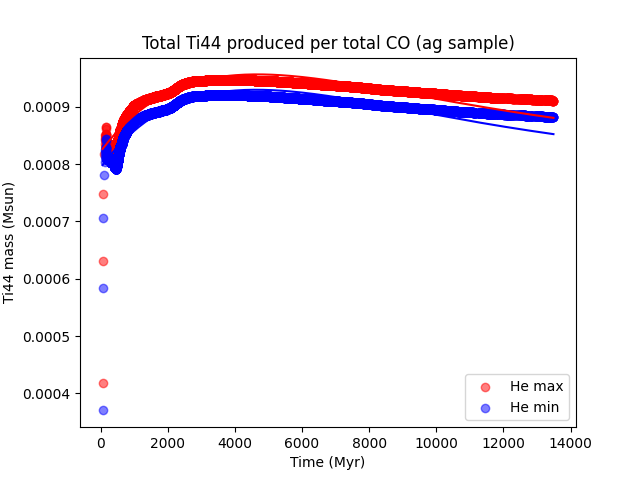
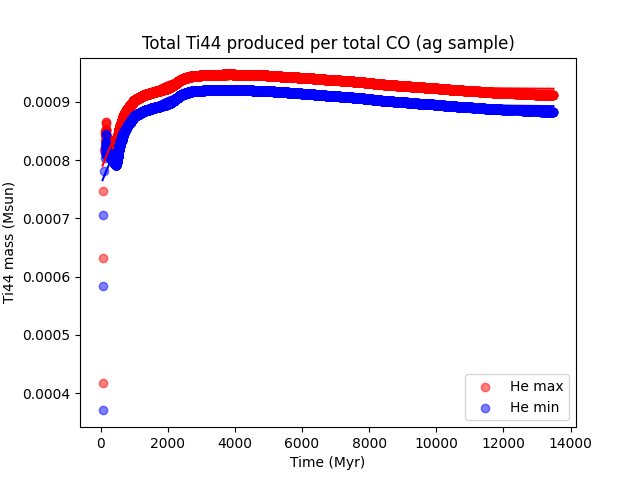
refined fits and outputted fitting parameters

diff --git a/Interpolation Code/rbf_interp/rbf_interp_outp.py b/Interpolation Code/rbf_interp/rbf_interp_outp.py
@@ -44,11 +44,9 @@ Also, commenting out some extraneous blocks to make the relevant bits run faster
 # includes ...
 import sys
 sys.path.append('../')
-from groupFunctions import positronFromTi
 from rbf_interp import * 
 #import numpy as np (within rbf_interp) 
 import pandas as pd 
-import matplotlib.pyplot as plt
 from scipy.optimize import curve_fit 
 
 
@@ -120,35 +118,12 @@ ag_ti_min = np.array(ti_interp.arr_interp(ag_wd1min_pts))
 ag_ti_min += np.array(ti_interp.arr_interp(ag_wd2min_pts)) 
 
 #################
-""" 
-Quick update Aug 3
-Divided entrywise by mass that produced Ti44
-in this case, (WD1_m + WD2_m)
-Consider adding Helium masses to denominator? 
-
-def mass_normalization(ti_arr, wd1_pts_arr, wd2_pts_arr): 
-    # Takes in numpy arrays (from data above) 
-    # assuming wd*_pts_arr is indexed like [He_mass, WD*_mass] 
-    # and performs the following calculation entrywise: 
-    Ti_mass = Ti_mass / (WD1_mass + WD2_mass) 
-    wd_mass_sum = wd1_pts_arr[:,1] + wd2_pts_arr[:,1] 
-    return ti_arr / wd_mass_sum
-
-aa_ti_max = mass_normalization(aa_ti_max, aa_wd1max_pts, aa_wd2max_pts) 
-aa_ti_min = mass_normalization(aa_ti_min, aa_wd1min_pts, aa_wd2min_pts) 
-ag_ti_max = mass_normalization(ag_ti_max, ag_wd1max_pts, ag_wd2max_pts) 
-ag_ti_min = mass_normalization(ag_ti_min, ag_wd1min_pts, ag_wd2min_pts) 
-
-This appears to get a better picture for the plots that show Ti44 produced at each moment in time 
-But doesn't serve to get the total Ti44 plots intensive
-"""
-#################
 
 # Function to sum over values of an array
 # Returning an array with entries as sum up to that point 
 # Update Aug 3: Normalized to total CO mass at each point 
 def total_arr(ti_arr, wd1_pts_arr, wd2_pts_arr): 
-    # inputs are numpy arrays for entrywise addition to work correctly 
+    # inputs must be numpy arrays for entrywise addition to work 
     wd_mass_sum_arr = wd1_pts_arr[:,1] + wd2_pts_arr[:,1] 
     sum_ti = 0
     sum_co = 0 
@@ -165,67 +140,41 @@ aa_totalTi_min = total_arr(aa_ti_min, aa_wd1min_pts, aa_wd2min_pts)
 ag_totalTi_max = total_arr(ag_ti_max, ag_wd1max_pts, ag_wd2max_pts) 
 ag_totalTi_min = total_arr(ag_ti_min, ag_wd1min_pts, ag_wd2min_pts) 
 
-"""
-# Finding positrons from Ti mass arrays 
-aa_pos_max = np.array(positronFromTi(aa_ti_max)) 
-aa_pos_min = np.array(positronFromTi(aa_ti_min)) 
-ag_pos_max = np.array(positronFromTi(ag_ti_max))
-ag_pos_min = np.array(positronFromTi(ag_ti_min)) 
-
-# Finding total positrons produced over time 
-aa_totalPos_max = total_arr(aa_pos_max, aa_wd1max_pts, aa_wd2max_pts) 
-aa_totalPos_min = total_arr(aa_pos_min, aa_wd1min_pts, aa_wd2min_pts) 
-ag_totalPos_max = total_arr(ag_pos_max, ag_wd1max_pts, ag_wd2max_pts) 
-ag_totalPos_min = total_arr(ag_pos_min, ag_wd1min_pts, ag_wd2min_pts) 
-"""
-
 ###### Fits ######
 
 # Model function 
-def model(x, a, b, c): 
-    return a*x*np.exp(-b*x) + c
+def model(x, a, b, c, d): 
+    return (a*x + b)*np.exp(-c*x) + d
 
-# Fitting parameters 
-aa_Ti_max_fit, pcov = curve_fit(model, aa_times, aa_totalTi_max, (4e-8, 3.3e-4, 5e-4)) 
-aa_Ti_min_fit, pcov = curve_fit(model, aa_times, aa_totalTi_min, (4e-8, 3.3e-4, 5e-4))
-ag_Ti_max_fit, pcov = curve_fit(model, ag_times, ag_totalTi_max, (4e-8, 3.3e-4, 5e-4)) 
-ag_Ti_min_fit, pcov = curve_fit(model, ag_times, ag_totalTi_min, (4e-8, 3.3e-4, 5e-4))
+# Fitting to model with curve_fit
+initial_guess = (7e-8, -1e-4, 5e-4, 9e-4) 
+aa_Ti_max_fit, cov1 = curve_fit(model, aa_times, aa_totalTi_max, p0 = initial_guess, absolute_sigma = True) 
+aa_Ti_min_fit, cov2 = curve_fit(model, aa_times, aa_totalTi_min, p0 = initial_guess, absolute_sigma = True)
+ag_Ti_max_fit, cov3 = curve_fit(model, ag_times, ag_totalTi_max, p0 = initial_guess, absolute_sigma = True) 
+ag_Ti_min_fit, cov4 = curve_fit(model, ag_times, ag_totalTi_min, p0 = initial_guess, absolute_sigma = True)
 
-# Linspace arrays 
+# Exporting fitting parameters to a file
+params = { 
+        'aa_max': aa_Ti_max_fit, 
+        'aa_min': aa_Ti_min_fit, 
+        'ag_max': ag_Ti_max_fit, 
+        'ag_min': ag_Ti_min_fit,
+        'param': ['a','b','c','d']
+} 
+params_df = pd.DataFrame(params) 
+params_df.set_index('param', inplace=True) 
+params_df.to_csv('rbf_interp_outp_params.txt', sep = ' ') 
+
+# Linspace arrays for plotting 
 aa_times_lin = np.linspace(np.amin(aa_times), np.amax(aa_times), 150) 
 ag_times_lin = np.linspace(np.amin(ag_times), np.amax(ag_times), 150) 
 
-# Functions 
+# Functions for plotting 
 def aa_TImax_fn(t): 
-    return model(t, aa_Ti_max_fit[0], aa_Ti_max_fit[1], aa_Ti_max_fit[2]) 
+    return model(t, aa_Ti_max_fit[0], aa_Ti_max_fit[1], aa_Ti_max_fit[2], aa_Ti_max_fit[3]) 
 def aa_TImin_fn(t): 
-    return model(t, aa_Ti_min_fit[0], aa_Ti_min_fit[1], aa_Ti_min_fit[2]) 
+    return model(t, aa_Ti_min_fit[0], aa_Ti_min_fit[1], aa_Ti_min_fit[2], aa_Ti_min_fit[3]) 
 def ag_TImax_fn(t): 
-    return model(t, ag_Ti_max_fit[0], ag_Ti_max_fit[1], ag_Ti_max_fit[2]) 
+    return model(t, ag_Ti_max_fit[0], ag_Ti_max_fit[1], ag_Ti_max_fit[2], ag_Ti_max_fit[3]) 
 def ag_TImin_fn(t): 
-    return model(t, ag_Ti_min_fit[0], ag_Ti_min_fit[1], ag_Ti_min_fit[2]) 
-
-"""
-# I tried out np.polyfit, 
-# But it appears not to resemble a polynomial too well 
-
-# Parameter tuples 
-aa_Ti_max_fit = np.polyfit(aa_times, aa_totalTi_max, 4) 
-aa_Ti_min_fit = np.polyfit(aa_times, aa_totalTi_min, 4) 
-ag_Ti_max_fit = np.polyfit(ag_times, ag_totalTi_max, 4) 
-ag_Ti_min_fit = np.polyfit(ag_times, ag_totalTi_min, 4) 
-
-# Functions 
-# t can be array or point like 
-def aa_TImax_fn(t): 
-    return aa_Ti_max_fit[0]*np.power(t,4) + aa_Ti_max_fit[1]*np.power(t,3) + aa_Ti_max_fit[2]*np.power(t,2) + aa_Ti_max_fit[3]*t + aa_Ti_max_fit[4]
-
-def aa_TImin_fn(t): 
-    return aa_Ti_min_fit[0]*np.power(t,4) + aa_Ti_min_fit[1]*np.power(t,3) + aa_Ti_min_fit[2]*np.power(t,2) + aa_Ti_min_fit[3]*t + aa_Ti_min_fit[4]
-
-def ag_TImax_fn(t): 
-    return ag_Ti_max_fit[0]*np.power(t,4) + ag_Ti_max_fit[1]*np.power(t,3) + ag_Ti_max_fit[2]*np.power(t,2) + ag_Ti_max_fit[3]*t + ag_Ti_max_fit[4]
-
-def ag_TImin_fn(t): 
-    return ag_Ti_min_fit[0]*np.power(t,4) + ag_Ti_min_fit[1]*np.power(t,3) + ag_Ti_min_fit[2]*np.power(t,2) + ag_Ti_min_fit[3]*t + ag_Ti_min_fit[4]
-"""
+    return model(t, ag_Ti_min_fit[0], ag_Ti_min_fit[1], ag_Ti_min_fit[2], ag_Ti_min_fit[3]) 

diff --git a/Interpolation Code/rbf_interp/rbf_interp_outp_plots.py b/Interpolation Code/rbf_interp/rbf_interp_outp_plots.py
@@ -7,6 +7,7 @@ After which, we'll try folding in the SFR to get the total rate
 """ 
 
 from rbf_interp_outp import * 
+import matplotlib.pyplot as plt
 
 ############ Plots ############
 """
